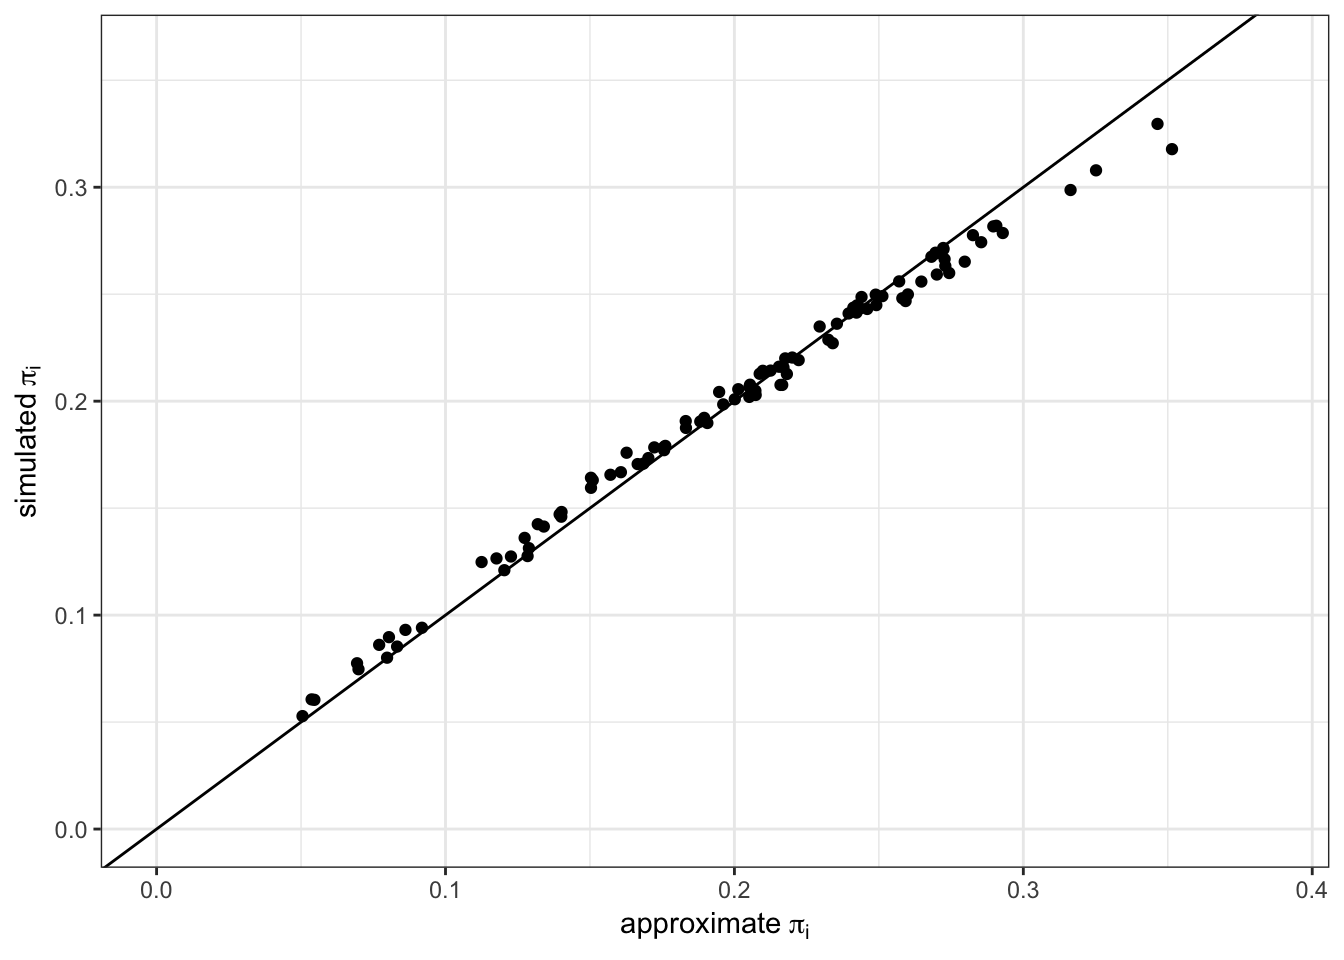
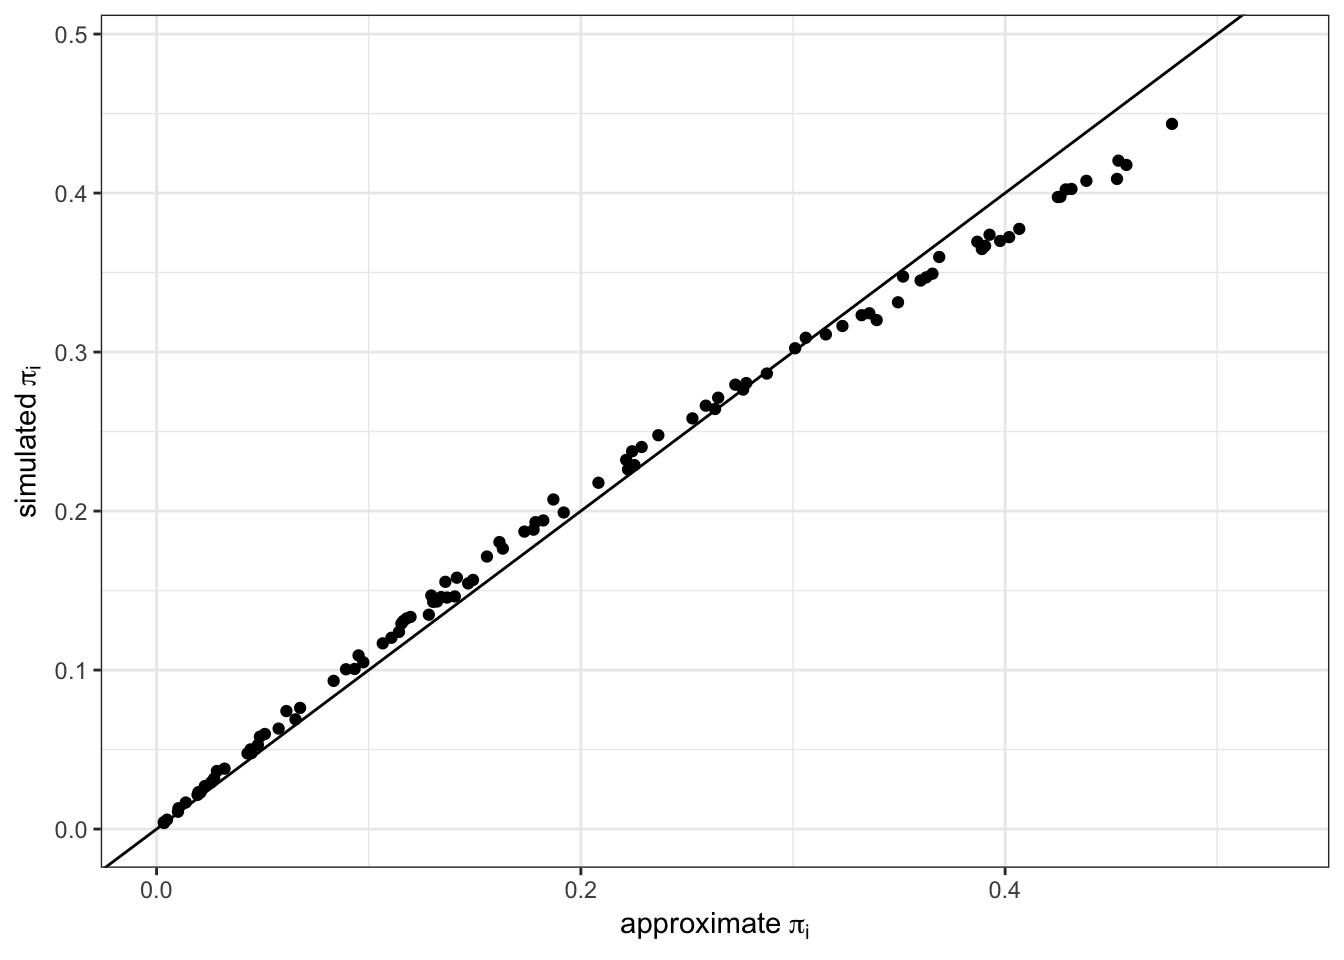
polish up HT post

diff --git a/content/post/2019-02-04-horvitz_thompson.html b/content/post/2019-02-04-horvitz_thompson.html
@@ -1,5 +1,5 @@
 ---
-title: "Forest Sampling: Application of Horvitz-Thompson estimators in a two stage sample"
+title: "Forest Inventory: Application of Horvitz-Thompson estimators in a two stage sample"
 author: "Henry Rodman"
 date: "2019-02-04"
 categories: ["R"]
@@ -26,13 +26,11 @@ output:
 <pre class="r"><code># simulate a population of stands
 stands &lt;- tibble(id = 1:100) %&gt;%
   mutate(
-    acres = truncnorm::rtruncnorm(
-      n = 100, a = 1, b = 400,
-      mean = 80, sd = 30
+    acres = runif(
+      n = 100, min = 1, max = 400
     ),
-    age = truncnorm::rtruncnorm(
-      n = 100, a = 10, b = 150,
-      mean = 70, sd = 20
+    age = runif(
+      n = 100, min = 10, max = 150
     ),
     cv = runif(n = 100, min = 10, max = 100)
   ) %&gt;%
@@ -40,8 +38,7 @@ stands &lt;- tibble(id = 1:100) %&gt;%
     cuftPerAc = 3000 *
       1 / (1 + exp(-(age - 40) / 15)) +
       rnorm(n = 100, mean = 0, sd = 300),
-    # cuftPerAc = 50 * age +
-    #   rnorm(n = 100, mean = 0, sd = 600),
+    cuftPerAc = ifelse(cuftPerAc &lt; 0, 0, cuftPerAc),
     cuftTot = cuftPerAc * acres
   )
 
@@ -61,7 +58,7 @@ stands %&gt;%
   geom_point() +
   ylab(bquote(&quot;volume (&quot; ~ ft^{3} ~ &quot;/ac)&quot;)) +
   labs(caption = &quot;volume over age for the forest&quot;)</code></pre>
-<p><img src="/post/2019-02-04-horvitz_thompson_files/figure-html/data-1.png" width="672" /> The true population mean stocking is 2476 cubic feet per acre, the population total is 2.010312110^{7} cubic feet!</p>
+<p><img src="/post/2019-02-04-horvitz_thompson_files/figure-html/data-1.png" width="672" /> The true population mean stocking is 2306 cubic feet per acre, the population total is 4.687976610^{7} cubic feet!</p>
 </div>
 <div id="designing-a-sample" class="section level2">
 <h2>Designing a sample</h2>
@@ -77,9 +74,8 @@ stands %&gt;%
 \pi_{i} = n * p_{i}
 \]</span></p>
 <p>where <span class="math inline">\(p_{i}\)</span> is the sampling weight for the <span class="math inline">\(i\)</span>th primary sample unit. This works fine when sampling with replacement, but sampling without replacement is slightly more complicated. The probability of including the <span class="math inline">\(i\)</span>th element on the <span class="math inline">\(k\)</span>th draw depends on the elements that were drawn in all draws <span class="math inline">\(1:k\)</span>. The distinction between <span class="math inline">\(p_{i}\)</span> and <span class="math inline">\(\pi_{i}\)</span> is very important. Think of <span class="math inline">\(\pi_{i}\)</span> as the likelihood of including the <span class="math inline">\(i\)</span>th element unconditional on the other elements selected in the sample. This can be calculated by computing the proportion of all possible samples where an element is selected but that sounds very difficult. Instead we will use the power of simulation to obtain an approximation of <span class="math inline">\(\pi_{i}\)</span> for each stand.</p>
-<pre class="r"><code>stands$prop &lt;- sqrt(stands$cuftPerAc) *
-  stands$acres /
-  sum(sqrt(stands$cuftPerAc) * stands$acres)
+<pre class="r"><code>stands$prop &lt;- (stands$cuftPerAc * stands$acres) /
+  sum(stands$cuftPerAc * stands$acres)
 
 simulate_sample &lt;- function(sims, stands, nSamp) {
   bind_rows(
@@ -109,7 +105,6 @@ sampleSim20 %&gt;%
   ggplot(aes(x = pi_i_approx, y = pi_i_sim)) +
   geom_point() +
   geom_abline() +
-  theme_bw() +
   xlim(0, 1.1 * max(sampleSim20$pi_i_approx)) +
   ylim(0, 1.1 * max(sampleSim20$pi_i_sim)) +
   xlab(bquote(&quot;approximate&quot; ~ pi[i])) +
@@ -163,12 +158,12 @@ stands %&gt;%
 <h3>Measure plots</h3>
 <p>In each sample stand we are installing a systematic random sample of 1/15 acre circular plots. On each plot we are estimating the cubic foot volume of the living trees. This is the second stage of our two-stage sample. We are simulating plots using a truncated normal distribution based on the true mean and coefficient of variation of each stand. We are using a truncated normal distribution with a lower limit of 0 since it is not possible to observe negative volume!</p>
 <pre class="r"><code>plotTab &lt;- sampStands %&gt;%
-  group_by(id) %&gt;%
+  rowwise() %&gt;%
   mutate(
     cuftObs = list(
       truncnorm::rtruncnorm(
-        a = 0, # biological minimum
-        b = 6000, # biological maximum
+        a = -Inf, # biological minimum
+        b = Inf, # biological maximum
         n = nPlots,
         mean = cuftPerAc,
         sd = (cv / 100) * cuftPerAc
@@ -188,7 +183,7 @@ stands %&gt;%
 <p>We can start by summarizing the stand-level estimates. For each stand we will estimate the total volume using the mean volume per acre from the sample and the total acres of each stand. We will also compute the sample variance and estimate the total variance for each stand.</p>
 <pre class="r"><code>standDat &lt;- plotTab %&gt;%
   left_join(
-    sampStands %&gt;% select(id, acres),
+    sampStands %&gt;% select(id, acres, cuftPerAc),
     by = &quot;id&quot;
   ) %&gt;%
   group_by(id, acres) %&gt;%
@@ -218,7 +213,7 @@ stands %&gt;%
 <p>where <span class="math inline">\(\pi_{ik}\)</span> is the joint inclusion probability for primary sampling units <span class="math inline">\(i\)</span> and <span class="math inline">\(k\)</span>.</p>
 <p><span class="math inline">\(\pi_{ik}\)</span> is approximated using this equation:</p>
 <p><span class="math display">\[
-$\pi_{ik}$ = \pi_{i} + \pi_{k} - (1 - (1 - p_{i} - p_{k})^n)
+\pi_{ik} = \pi_{i} + \pi_{k} - (1 - (1 - p_{i} - p_{k})^n)
 \]</span></p>
 <p>We will extend the estimate of population variance (<span class="math inline">\(\hat{V}(\hat{t}_{HT})\)</span>) to obtain a standard error and 90% confidence interval for the population.</p>
 <p>There is one component of the variance calculation where each observation must be compared to the rest of the observations in the sample. There may be a more elegant way to code that part, but for now this is what I have come up with:</p>
@@ -345,8 +340,8 @@ results &lt;- bind_rows(sampleSummary, truth)</code></pre>
           mutate(
             cuftObs = list(
               truncnorm::rtruncnorm(
-                a = 0, # biological minimum
-                b = 6000, # biological maximum
+                a = -Inf, # biological minimum
+                b = Inf,
                 n = nPlots,
                 mean = cuftPerAc,
                 sd = (cv / 100) * cuftPerAc
@@ -505,12 +500,12 @@ pander::pander(
   missing = &quot;-&quot;,
   emphasize.strong.rows = which(outTable$source == &quot;truth&quot;)
 )</code></pre>
-<table style="width:74%;">
+<table style="width:75%;">
 <colgroup>
 <col width="16%" />
 <col width="13%" />
 <col width="15%" />
-<col width="11%" />
+<col width="12%" />
 <col width="16%" />
 </colgroup>
 <thead>
@@ -526,49 +521,49 @@ pander::pander(
 <tr class="odd">
 <td align="center">estimate</td>
 <td align="center">10</td>
-<td align="center">2569</td>
-<td align="center">436.8</td>
-<td align="center">0.99</td>
+<td align="center">2313</td>
+<td align="center">393</td>
+<td align="center">1</td>
 </tr>
 <tr class="even">
 <td align="center">estimate</td>
 <td align="center">20</td>
-<td align="center">2560</td>
-<td align="center">216.1</td>
-<td align="center">0.94</td>
+<td align="center">2303</td>
+<td align="center">209.8</td>
+<td align="center">0.98</td>
 </tr>
 <tr class="odd">
 <td align="center">estimate</td>
 <td align="center">30</td>
-<td align="center">2563</td>
-<td align="center">168.3</td>
-<td align="center">0.83</td>
+<td align="center">2295</td>
+<td align="center">171.8</td>
+<td align="center">0.98</td>
 </tr>
 <tr class="even">
 <td align="center">estimate</td>
 <td align="center">40</td>
-<td align="center">2560</td>
-<td align="center">148.3</td>
-<td align="center">0.89</td>
+<td align="center">2298</td>
+<td align="center">152</td>
+<td align="center">1</td>
 </tr>
 <tr class="odd">
 <td align="center">estimate</td>
 <td align="center">50</td>
-<td align="center">2561</td>
-<td align="center">133.2</td>
-<td align="center">0.81</td>
+<td align="center">2305</td>
+<td align="center">131.6</td>
+<td align="center">0.96</td>
 </tr>
 <tr class="even">
 <td align="center">estimate</td>
 <td align="center">60</td>
-<td align="center">2569</td>
-<td align="center">117.2</td>
-<td align="center">0.68</td>
+<td align="center">2303</td>
+<td align="center">108.2</td>
+<td align="center">0.93</td>
 </tr>
 <tr class="odd">
 <td align="center"><strong>truth</strong></td>
 <td align="center"><strong>-</strong></td>
-<td align="center"><strong>2476</strong></td>
+<td align="center"><strong>2306</strong></td>
 <td align="center"><strong>-</strong></td>
 <td align="center"><strong>-</strong></td>
 </tr>
